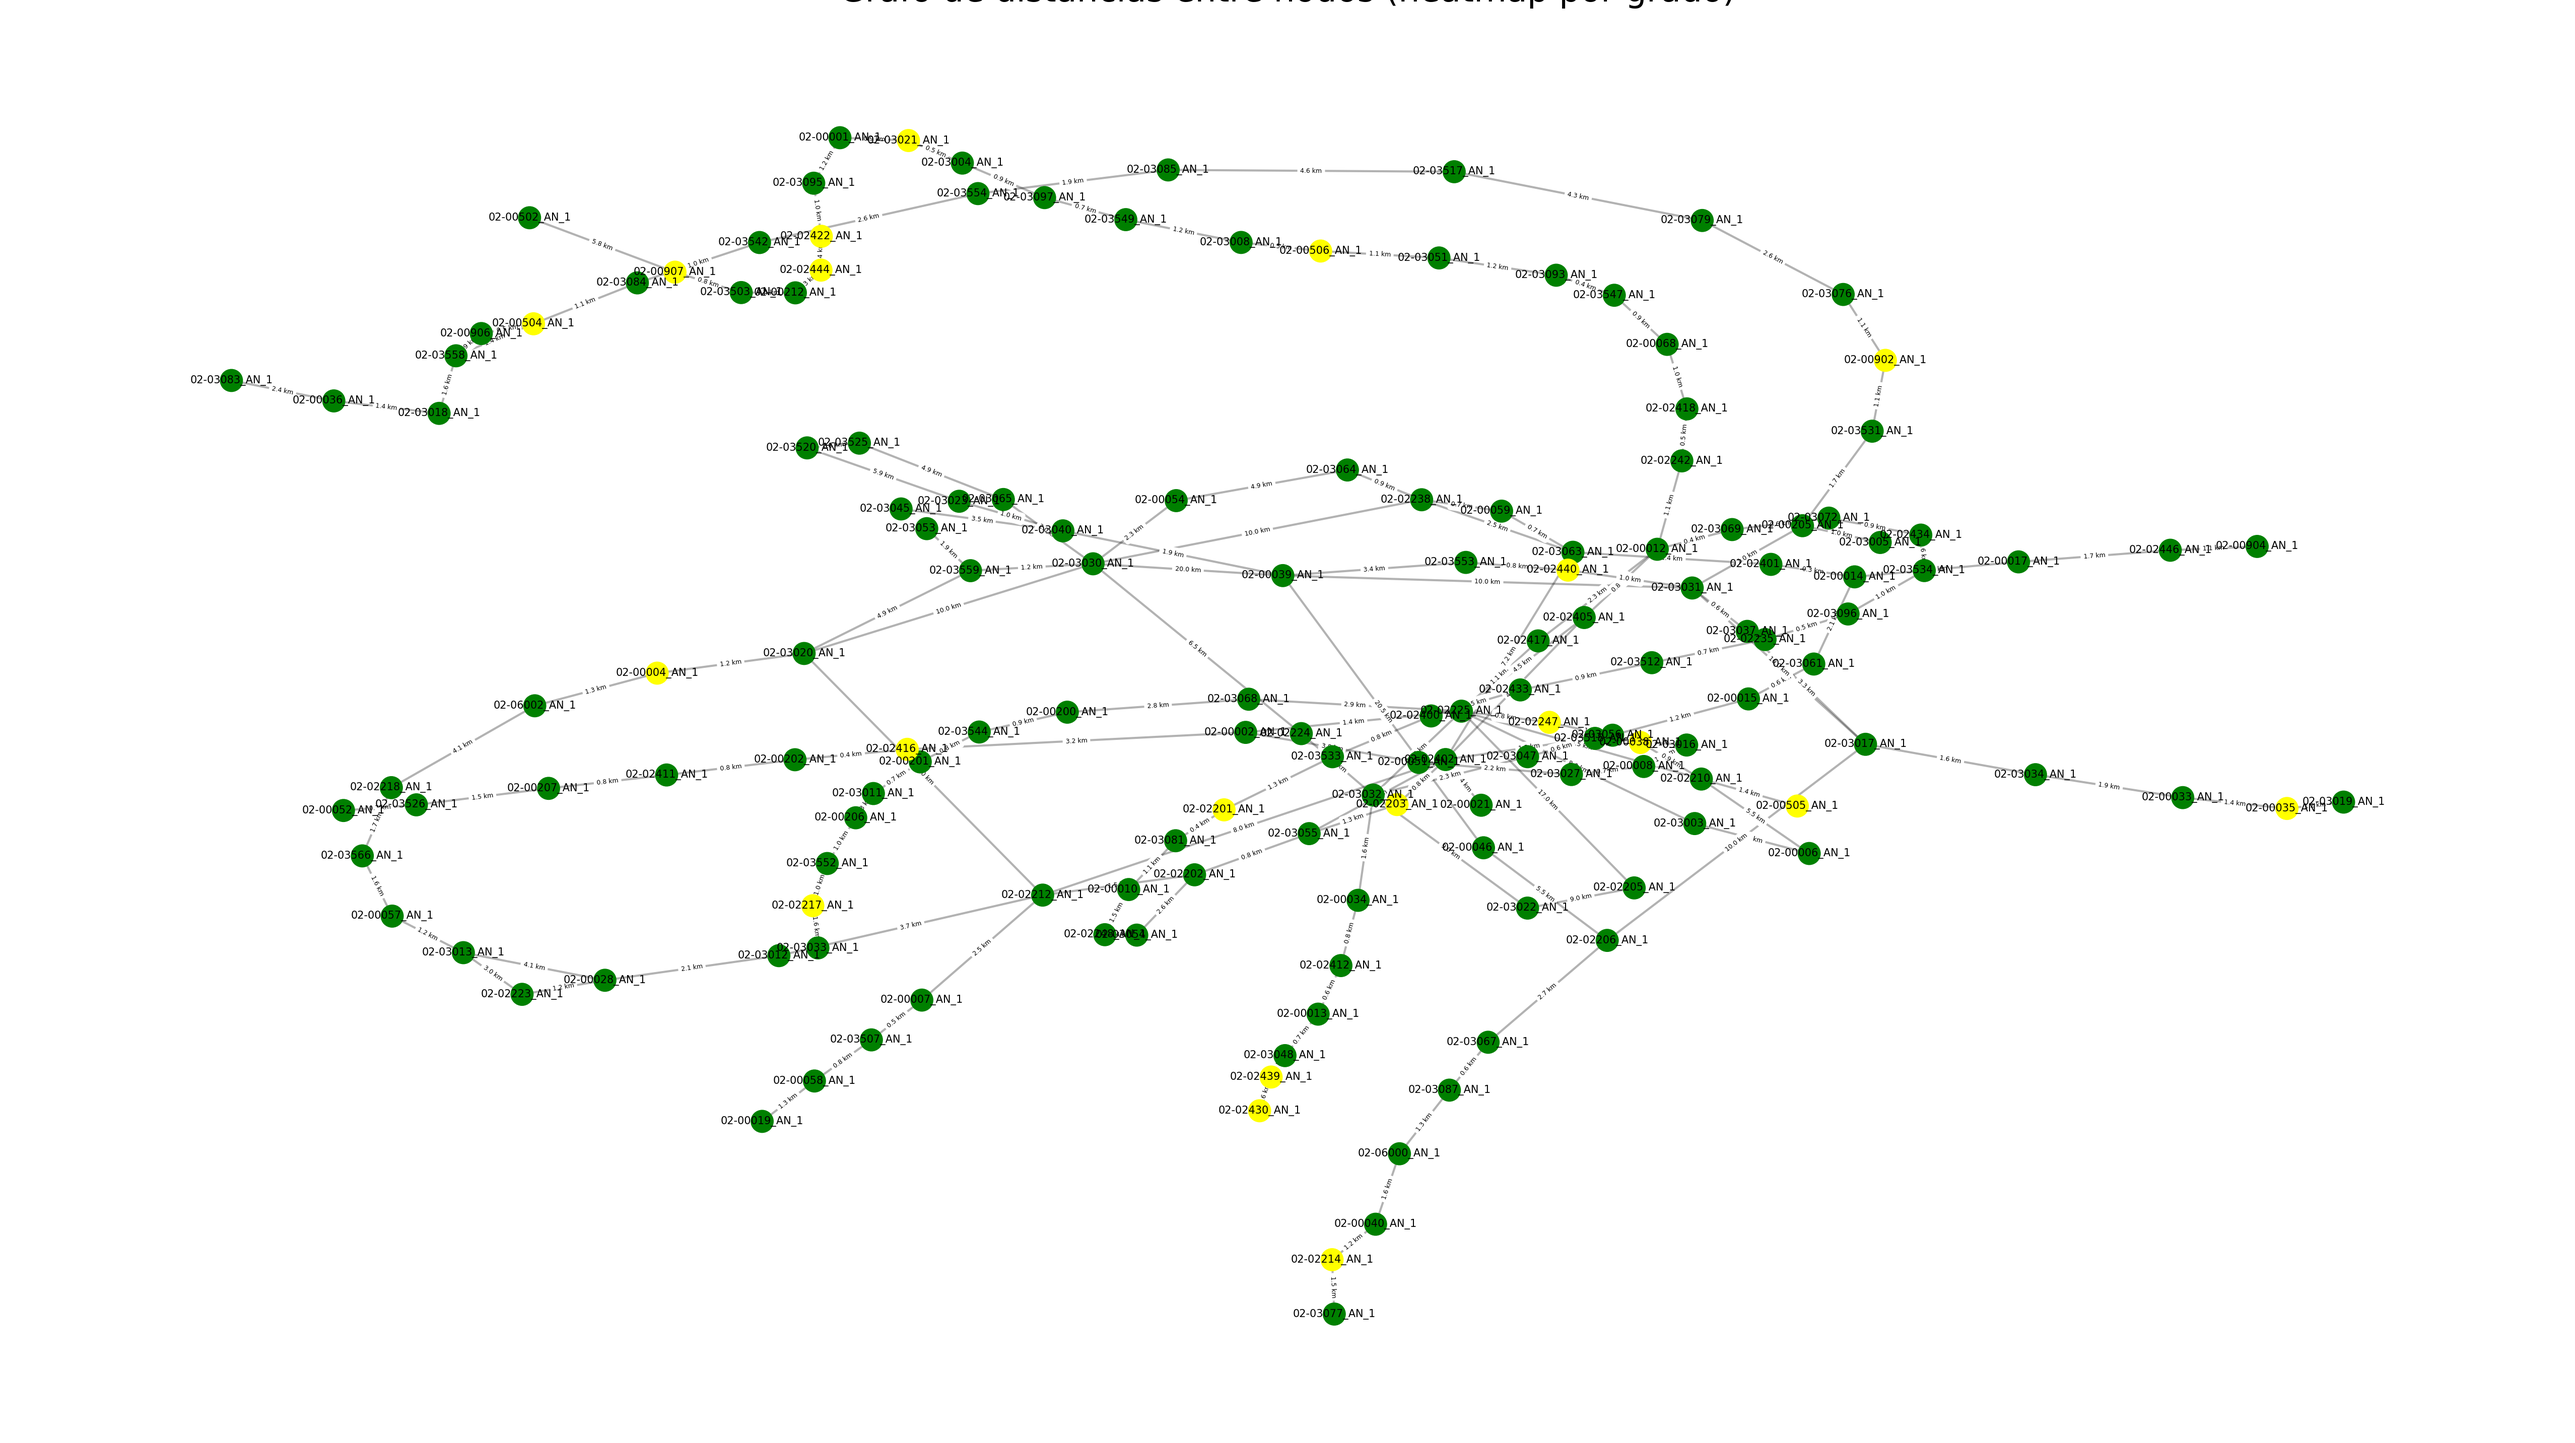
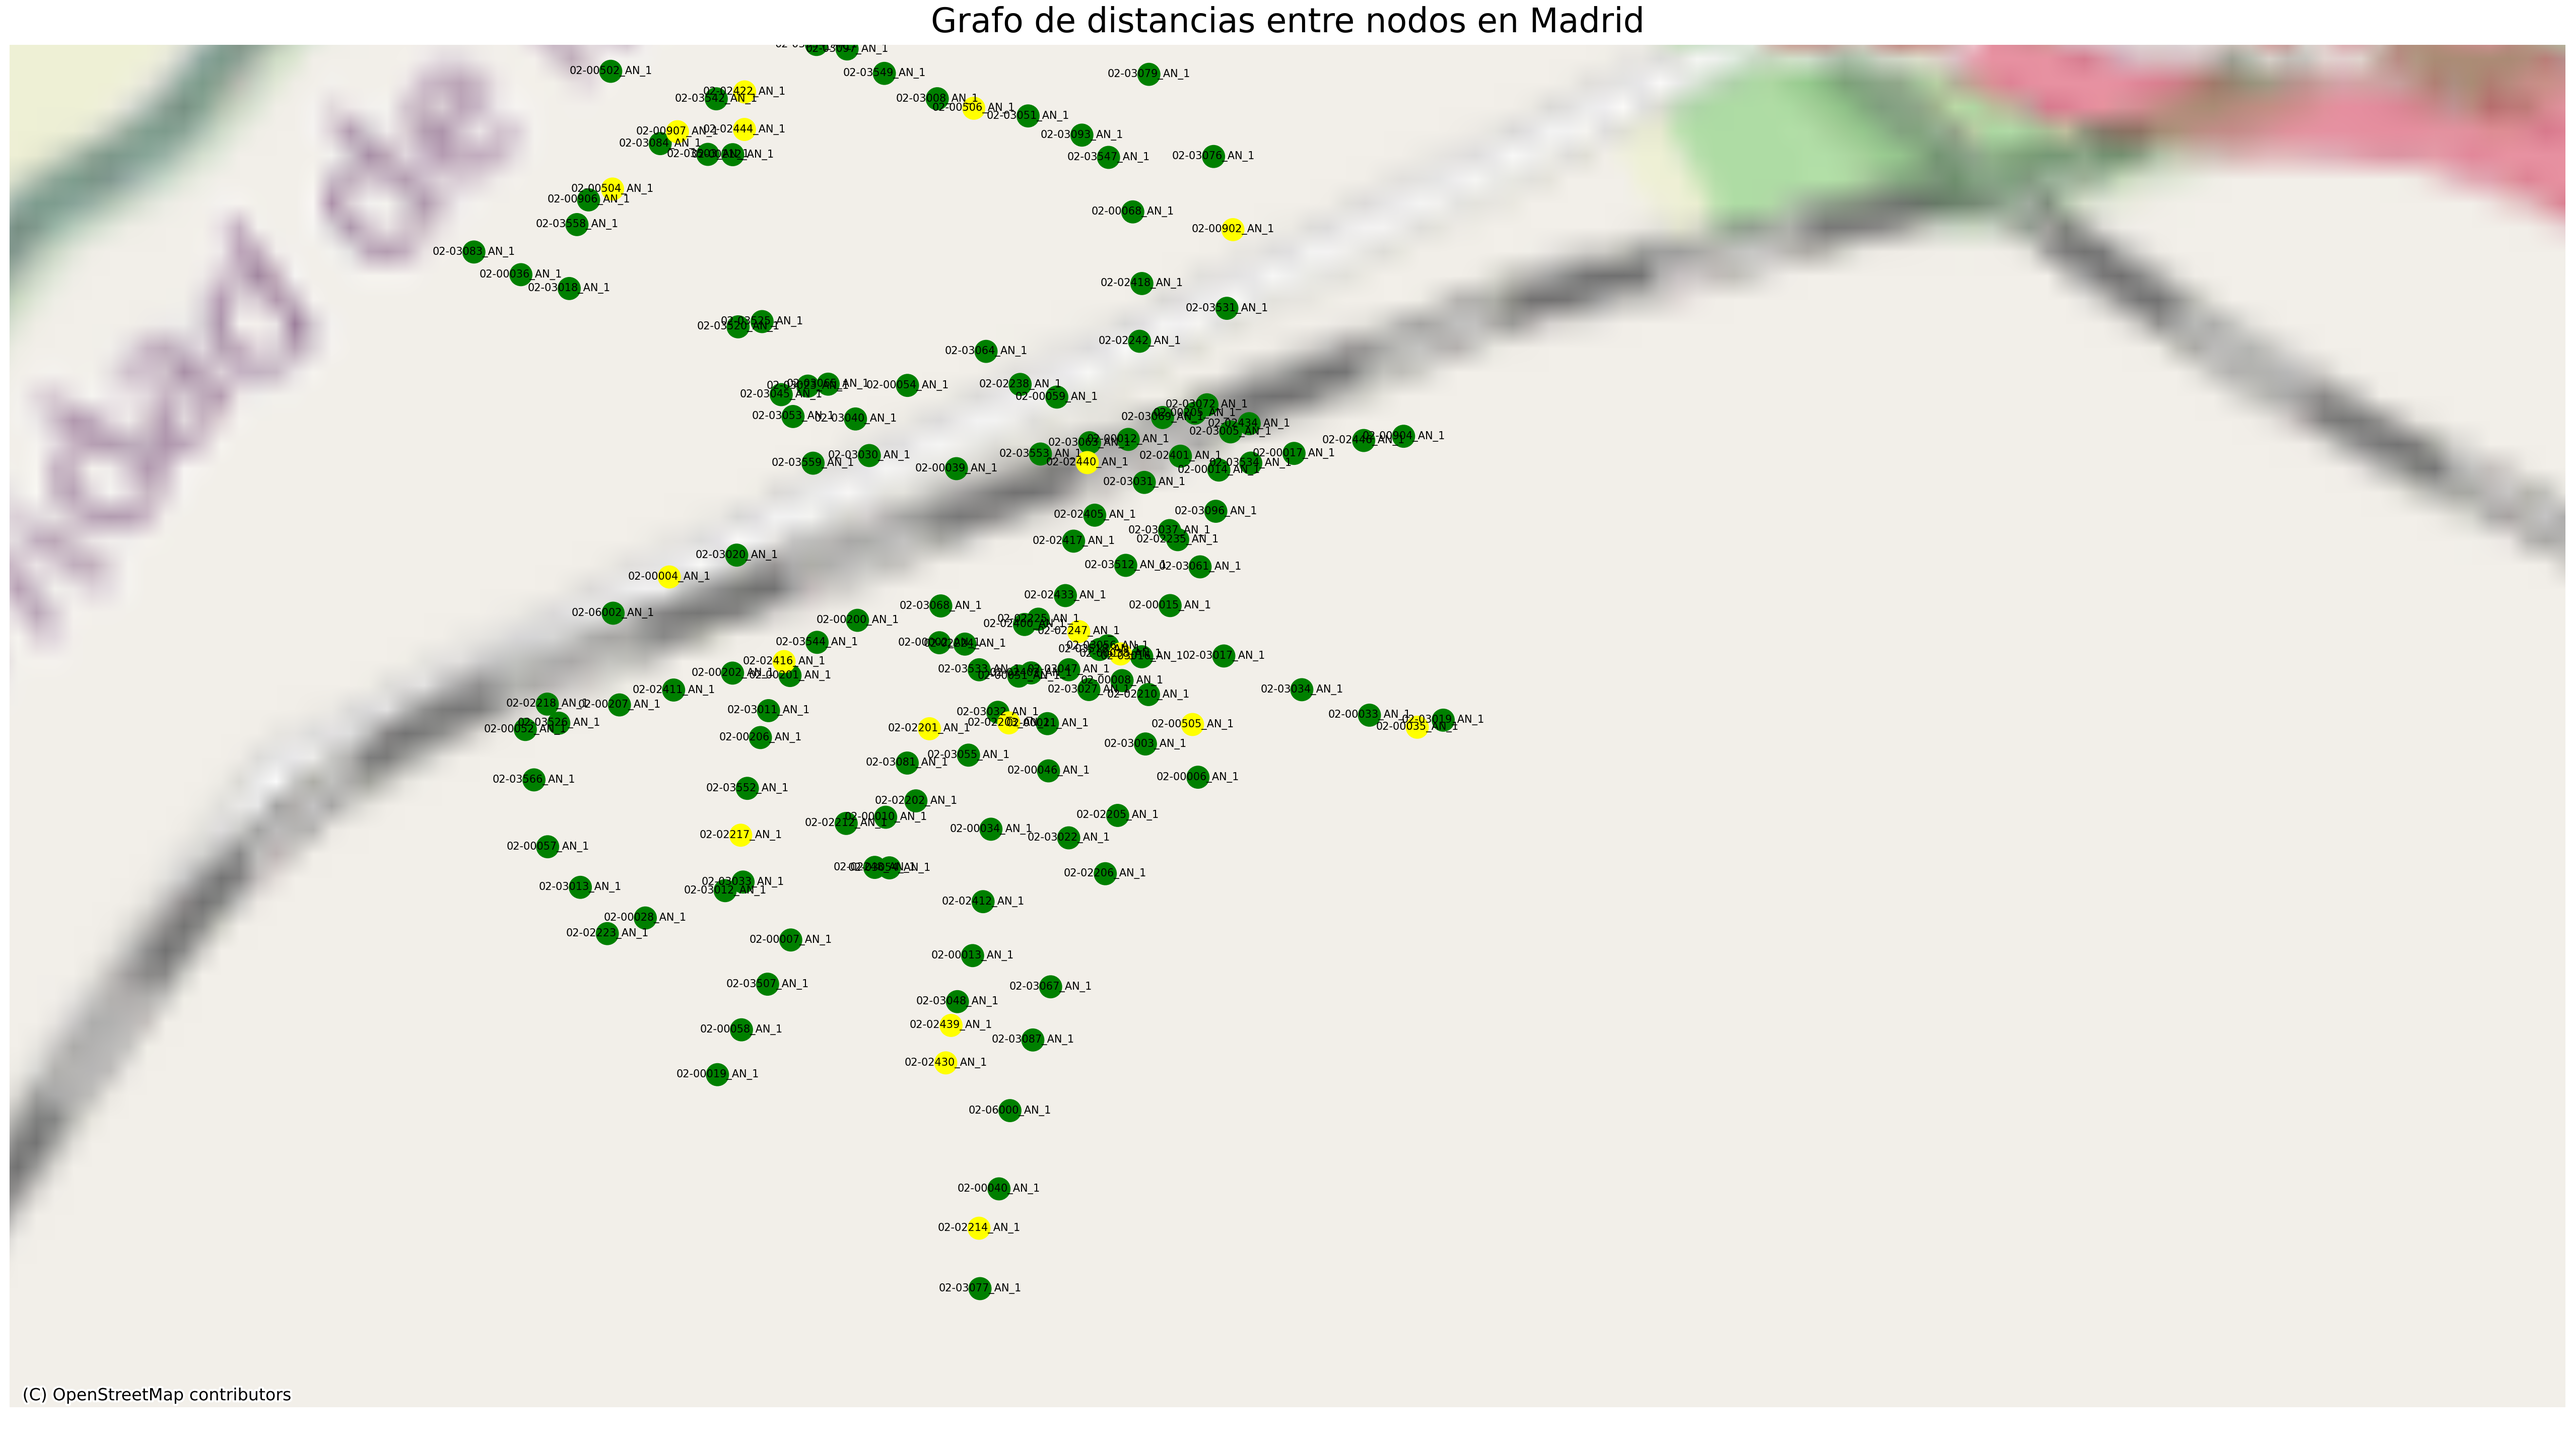
fix and placeholder

diff --git a/model/GraphComplete.py b/model/GraphComplete.py
@@ -6,6 +6,8 @@ import numpy as np
 import pandas as pd
 import matplotlib.pyplot as plt
 import scipy.io
+import geopandas as gpd
+import contextily as ctx
 
 class GraphComplete:
     graph_functions = {
@@ -16,6 +18,11 @@ class GraphComplete:
         "shell_layout": lambda G: nx.shell_layout(G),                   # TODO: tune
     }
     
+
+    # ---------------------------------------------------------------------------------------------------------------- #
+    # -- Wrapper to create from files -------------------------------------------------------------------------------- #
+    #                                                                                                                  #
+    # ---------------------------------------------------------------------------------------------------------------- #
     @staticmethod
     def of(distance_matrix_path: str, xlsx_data_path: str, layout_function: str = "spring_layout"):
         distance_matrix = scipy.io.loadmat(distance_matrix_path)['crossMatrix']
@@ -23,7 +30,10 @@ class GraphComplete:
         return GraphComplete(distance_matrix, xlsx_data, layout_function)
     
     
-    
+    # ---------------------------------------------------------------------------------------------------------------- #
+    # -- Constructor ------------------------------------------------------------------------------------------------- #
+    #                                                                                                                  #
+    # ---------------------------------------------------------------------------------------------------------------- #
     def __init__(self, distance_matrix: np.ndarray, xlsx_data: pd.DataFrame, layout_function: str = "spring_layout"):
         self.graph = nx.Graph()
         self.links = []
@@ -31,6 +41,10 @@ class GraphComplete:
         self.nodes_to_discard = []
         self.links_to_discard = []
         
+        # Coordinates for Puerta del Sol
+        puerta_del_sol_lat = 40.4168
+        puerta_del_sol_lon = -3.7038
+
         for i in range(distance_matrix.shape[0]):
             if xlsx_data.iloc[i, 1] != "HL4" and xlsx_data.iloc[i, 1] != "HL5":
                 self.nodes_to_discard.append(i)
@@ -50,10 +64,10 @@ class GraphComplete:
                     
                     self.links.append(Link(source=i, target=j, distance=distance, label=f'{distance:.2f}km'))
 
+        # Compute layout positions
         self.layout_function = layout_function
         self.pos = self.graph_functions[layout_function](self.graph)
-        
-        
+
         for i in range(distance_matrix.shape[0]):
             if i not in self.nodes_to_discard:
                 node_id = i
@@ -61,7 +75,8 @@ class GraphComplete:
                 node_type = xlsx_data.iloc[i, 1]
                 node_degree = int(sum(distance_matrix[i] > 0))
                 node_x, node_y = self.pos[i]
-            self.nodes.append(Node(id=node_id, type=node_type, x=node_x, y=node_y, node_degree=node_degree, name=node_name))
+
+                self.nodes.append(Node(id=node_id, type=node_type, x=node_x, y=node_y, node_degree=node_degree, name=node_name))
 
         print(f'Nodes: {len(self.nodes)}')
         print(f'Links: {len(self.links)}')
@@ -71,11 +86,20 @@ class GraphComplete:
         print(f'Remaining links: {len(self.graph.edges)}')
         
 
+    # ---------------------------------------------------------------------------------------------------------------- #
+    # -- To JSON ----------------------------------------------------------------------------------------------------- #
+    #                                                                                                                  #
+    # ---------------------------------------------------------------------------------------------------------------- #
     def to_json(self):
         return FileFormat(nodes=self.nodes, links=self.links).model_dump()
     
     
-    def plot_graph(self, guardar_figura=True, nombre_figura="grafo_distancias.png"):
+    
+    # ---------------------------------------------------------------------------------------------------------------- #
+    # -- Plot without map -------------------------------------------------------------------------------------------- #
+    #                                                                                                                  #
+    # ---------------------------------------------------------------------------------------------------------------- #
+    def plot_graph_on_map(self, guardar_figura=True, nombre_figura="grafo_distancias.png"):
         fig, ax = plt.subplots(figsize=(40, 40))
         node_colors = ["yellow" if node.type == "HL4" else "green" if node.type == "HL5" else "blue" for node in self.nodes]
         node_colors = [node_colors[i] for i in range(len(node_colors)) if i not in self.nodes_to_discard]
@@ -103,4 +127,15 @@ class GraphComplete:
             print(f"✅ Figura guardada como: {nombre_figura}")
         else:
             plt.show()
+            
+    
+    
+    # ---------------------------------------------------------------------------------------------------------------- #
+    # -- Plot with map ----------------------------------------------------------------------------------------------- #
+    #                                                                                                                  #
+    # ---------------------------------------------------------------------------------------------------------------- #
+    def plot_graph_with_map(self, guardar_figura=True, nombre_figura="grafo_distancias.png"):
+        pass            
+            
+
 

diff --git a/network_plotter/test_grapher.py b/network_plotter/test_grapher.py
@@ -19,7 +19,11 @@ def plot_test_2():
     graph.plot_graph()
     with open("graph.json", "w") as f:
         json.dump(graph.to_json(), f)
+        
+def plot_test_3():
+    graph = GraphComplete.of("network_plotter/Passion_Xtreme_III.mat", "network_plotter/NameTypes.xlsx")
+    graph.plot_graph_with_map()
 
 
 if __name__ == "__main__":
-    plot_test_2()
+    plot_test_3()
